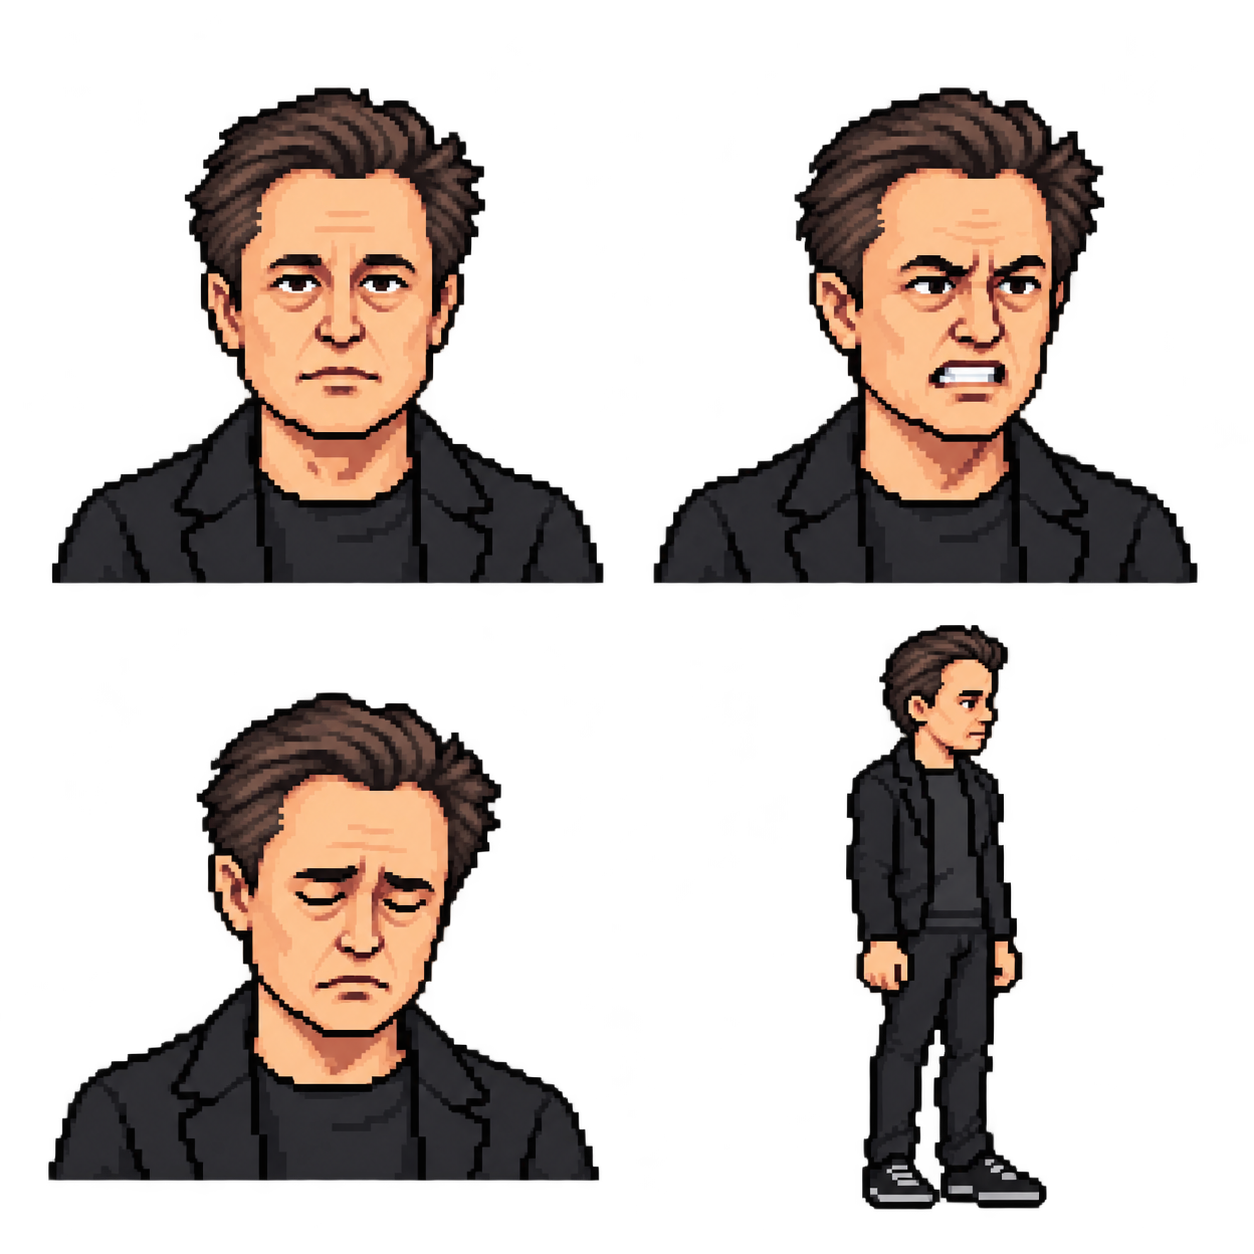
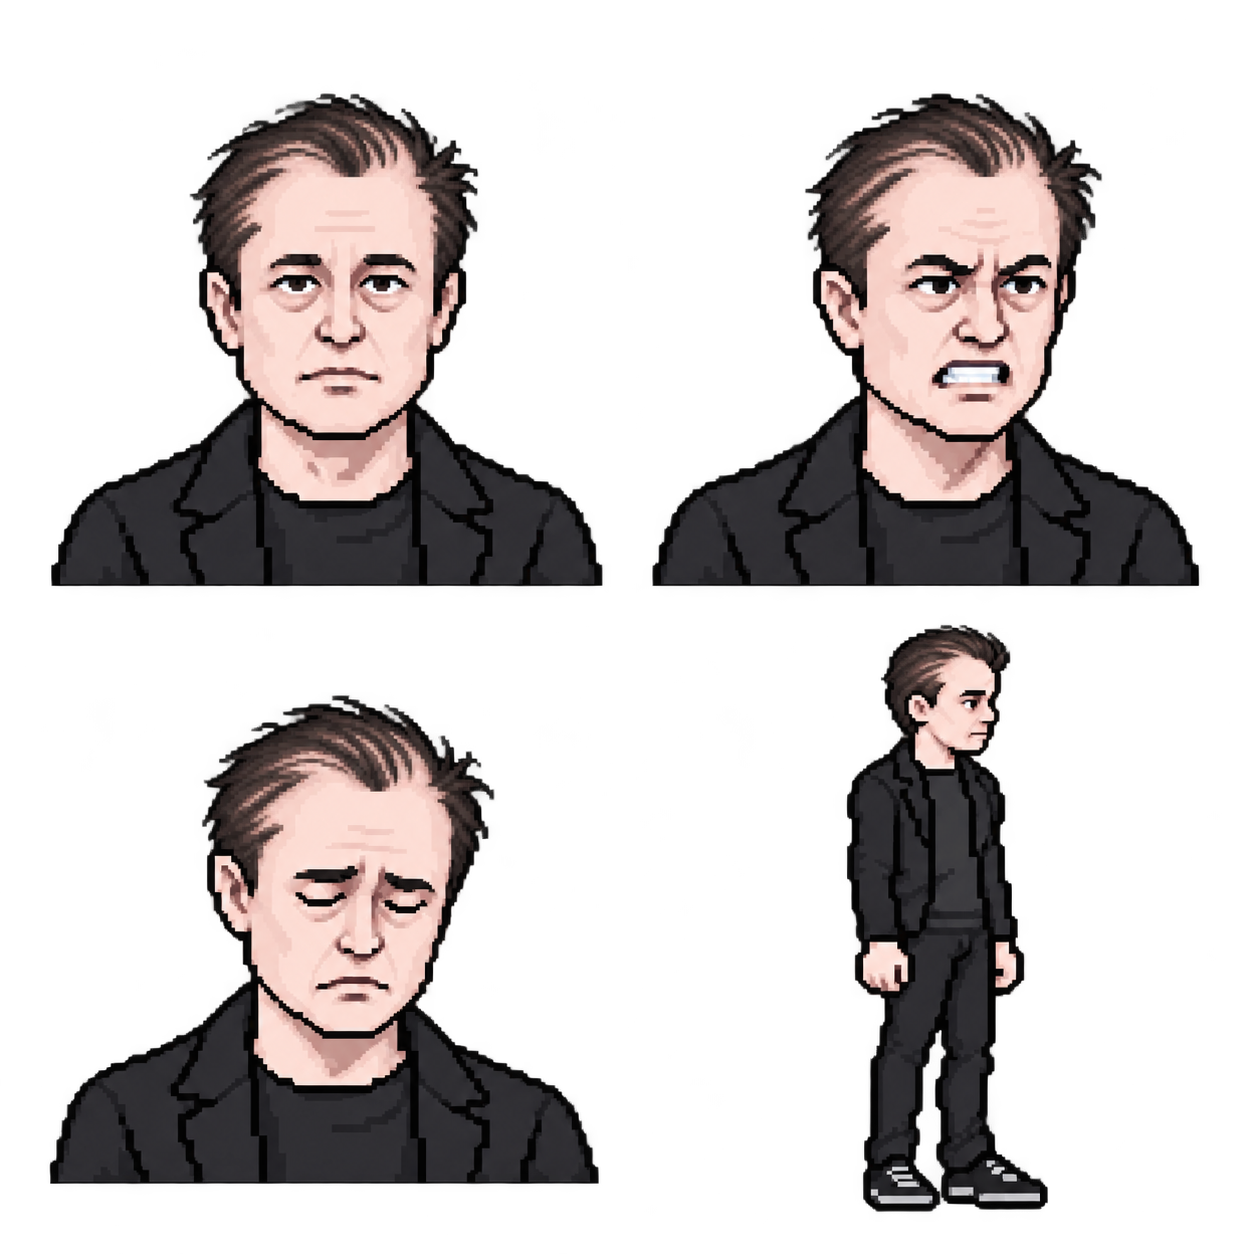
Match Jensen and Elon portrait head scale to roster references

diff --git a/client/home.css b/client/home.css
@@ -199,14 +199,17 @@ h1 span { font-weight: 400; }
 .roster-avatar-darrius { background-image: url('/assets/chars/darrius/legal_department_midnight/portraits/sheet.png?v=appearance-20261023b'); }
 .roster-avatar-demis { background-image: url('/assets/chars/demis/chalk_and_static/portraits/sheet.png'); }
 .roster-avatar-mark { background-image: url('/assets/chars/mark/wellness_berserker/portraits/sheet.png'); }
-.roster-avatar-jensen { background-image: url('/assets/chars/jensen/silicon_sovereign/portraits/sheet.png?v=appearance-20261023b'); }
-.roster-avatar-elon { background-image: url('/assets/chars/elon/orbital_showman/portraits/sheet.png?v=appearance-20261023b'); }
+.roster-avatar-jensen { background-image: url('/assets/chars/jensen/silicon_sovereign/portraits/sheet.png?v=appearance-20261023c'); }
+.roster-avatar-elon { background-image: url('/assets/chars/elon/orbital_showman/portraits/sheet.png?v=appearance-20261023c'); }
 
 /* Same measured neutral-bust crop as portraitCellCrop in character-presentation. */
-.roster-avatar-jensen,
+.roster-avatar-jensen {
+  background-size: 250% 250%;
+  background-position: 8.333333333333334% 8.333333333333334%;
+}
 .roster-avatar-elon {
-  background-size: 219.7802197802198% 219.7802197802198%;
-  background-position: 4.128440366972477% 7.339449541284404%;
+  background-size: 285.7142857142857% 285.7142857142857%;
+  background-position: 11.538461538461538% 10.76923076923077%;
 }
 
 .roster-name {

diff --git a/client/content/character-presentation.js b/client/content/character-presentation.js
@@ -12,16 +12,19 @@ export const BODY_PORTRAIT_SHEETS = {
   darrius: "assets/chars/darrius/legal_department_midnight/portraits/sheet.png?v=appearance-20261023b",
   demis: "assets/chars/demis/chalk_and_static/portraits/sheet.png",
   mark: "assets/chars/mark/wellness_berserker/portraits/sheet.png",
-  jensen: "assets/chars/jensen/silicon_sovereign/portraits/sheet.png?v=appearance-20261023b",
-  elon: "assets/chars/elon/orbital_showman/portraits/sheet.png?v=appearance-20261023b",
+  jensen: "assets/chars/jensen/silicon_sovereign/portraits/sheet.png?v=appearance-20261023c",
+  elon: "assets/chars/elon/orbital_showman/portraits/sheet.png?v=appearance-20261023c",
 };
 
 // These generated busts have more top padding than the original 96px art.
 // A measured source crop aligns crown, chin and shoulders; body cell 3 stays
 // untouched. The same crop is consumed by Canvas and CSS portrait users.
-const INSET_BUST = [0.045, 0.08, 0.91, 0.91];
+const BUST_CROPS = {
+  jensen: [0.10, 0.10, 0.80, 0.80],
+  elon: [0.15, 0.14, 0.70, 0.70],
+};
 export function portraitCellCrop(body, cell=0) {
-  return cell<3 && (body==='jensen'||body==='elon') ? INSET_BUST : [0,0,1,1];
+  return cell<3 && BUST_CROPS[body] ? BUST_CROPS[body] : [0,0,1,1];
 }
 export function portraitSourceRect(body, cell, width, height) {
   const [x,y,w,h]=portraitCellCrop(body,cell),cw=width/2,ch=height/2;

diff --git a/client/render/fighter-rig.js b/client/render/fighter-rig.js
@@ -9,7 +9,8 @@ export const FIGHTER_RIGS = {
 };
 for(const body of ['darrius','demis','mark','jensen','elon']) FIGHTER_RIGS[body]={...FIGHTER_RIGS.sama,url:`assets/chars/rig-v1/${body}.png`};
 // Hosting caches PNGs for an hour; revised art must not reuse the old URL.
-for(const body of ['darrius','elon'])FIGHTER_RIGS[body].url+='?v=appearance-20261023b';
+FIGHTER_RIGS.darrius.url+='?v=appearance-20261023b';
+for(const body of ['jensen','elon'])FIGHTER_RIGS[body].url+='?v=appearance-20261023c';
 const images=new Map();
 const stateFor=(body)=>{const spec=FIGHTER_RIGS[body];if(!spec)return null;let state=images.get(body);if(!state){state=imageState(spec.url);images.set(body,state);}return {spec,img:loadImage(state)};};
 const clamp=(v,a,b)=>Math.max(a,Math.min(b,v));

diff --git a/docs/roster-headscale-review-2026-10-23.md b/docs/roster-headscale-review-2026-10-23.md
@@ -1,0 +1,41 @@
+# Head-scale appearance revision
+
+This follow-up starts at source `b48e6dd`; deployment remains held for visual review.
+Mark and Demis are the requested scale references. Equal image sizes and crown
+padding alone did not establish equal head sizes. The regression now measures
+actual opaque head spans through forehead/eye/cheek rows at a common 96px size.
+
+| Portrait | Before approximate head width | Revised head width |
+| --- | ---: | ---: |
+| Demis (reference) | 49px | 49px |
+| Mark (reference) | 64px | 64px |
+| Jensen | 51px | 59px |
+| Elon | 44px | 58px |
+
+The median of 13 horizontal spans in the 25–55% vertical head band is used.
+Jensen and Elon now lie inside the Mark/Demis reference range and within 12%
+of its mean. This measures visible pixels, not atlas or viewport dimensions.
+Both home CSS and Canvas HUD use equivalent source crops for all three bust
+expressions. Full-body portrait cell 3 is unchanged in framing.
+
+Four imagegen edits of inspected references retain transparent 1254px atlases:
+Elon has cool pale skin, exposed scalp and sparse receding strands, with his
+older, less idealized face retained. Jensen's hair is predominantly neutral
+gray with restrained dark shadows. Their rig plates carry the same appearance.
+Exact prompts are in `roster-headscale-prompts-2026-10-23.json`. Generated PNG
+bytes were copied unchanged; no external raster edits or resizing were used.
+
+All six fighters were reviewed at identical rendered scale, including both
+facings. Actual home cards and Duel HUD were captured at 1440px and 390px;
+no page errors or horizontal overflow. 107 client tests pass, including real
+pixel head-width regression, CSS/Canvas crop equivalence and mirrored wrist/
+socket/IK tests. Darius's approved PNGs remain byte-identical to the baseline.
+Weapon assets, socket coordinates, bone sizes, animation and collision/sim
+geometry are unchanged. Original checkout edits remain untouched.
+
+Task artifacts: `headscale-v3-before/`, `headscale-v3-after/`,
+`headscale-v3-game/`, `headscale-v3-tests.log` and `headscale-v3-review.pdf`.
+The PDF contains before/after equal-scale sheets, mobile cards and actual HUD
+captures, and is saved as a new version of the existing Library review.
+No Firebase deployment, Firestore migration, live two-peer or physical-device
+qualification is claimed.
